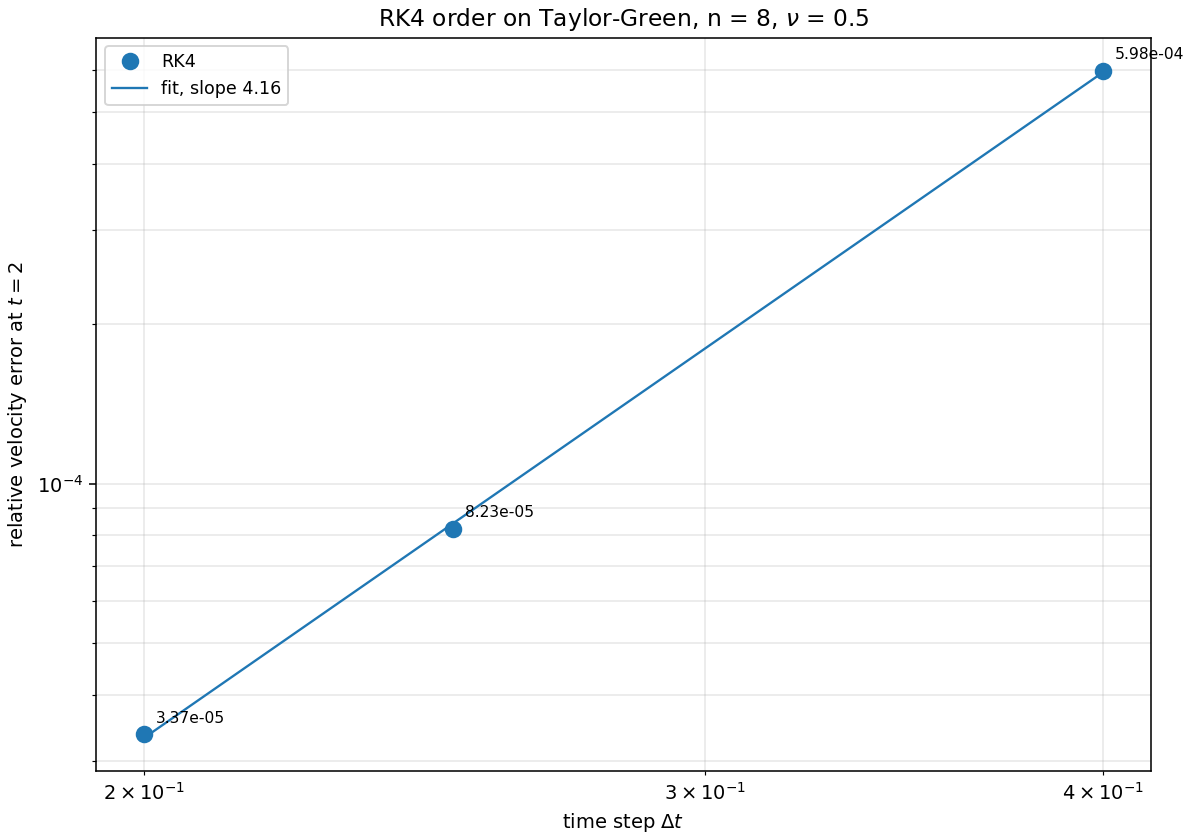
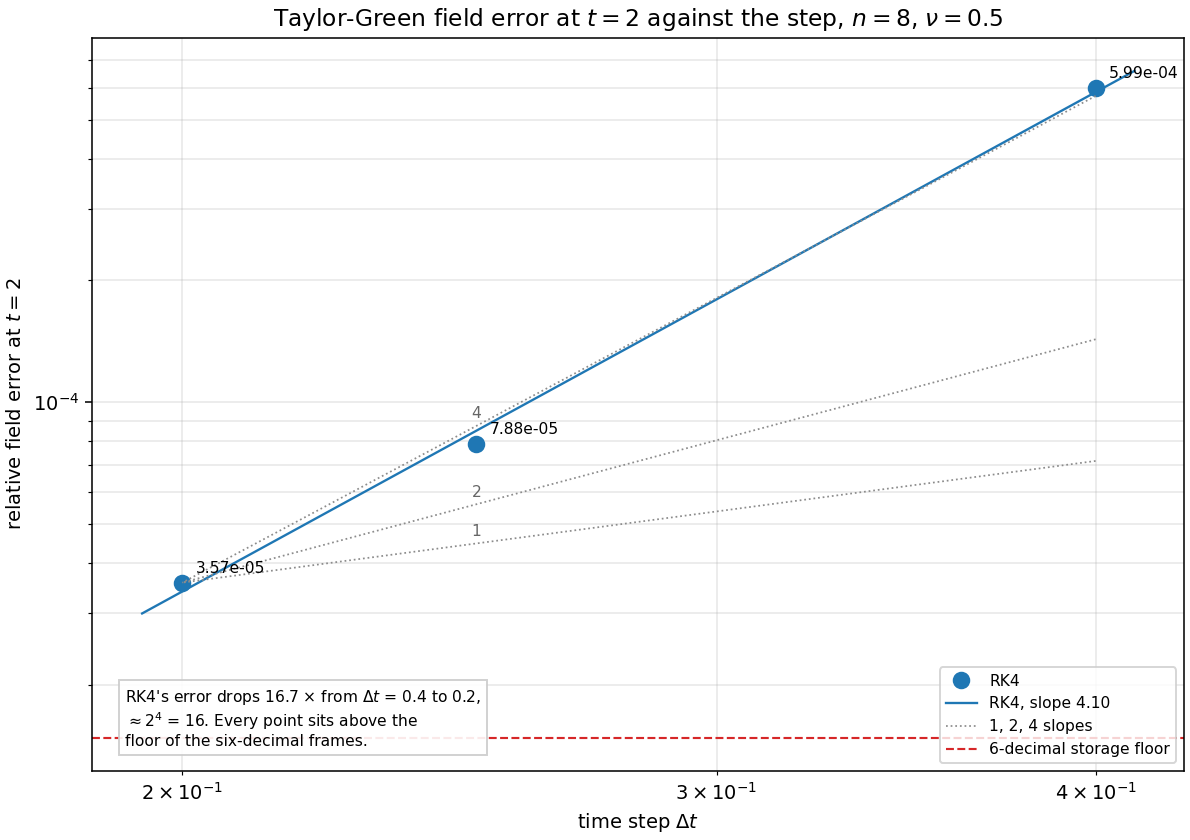
fix: measure week4 order study on six-decimal frames

diff --git a/week4/scripts/draw_order.py b/week4/scripts/draw_order.py
@@ -1,13 +1,18 @@
-"""Plot the time-step error of RK4 on Taylor-Green, on log-log axes.
+"""Plot the Taylor-Green field error against the RK4 time step on log-log axes.
 
-Reads the runs written by scripts/run_order.sh, computes the relative L2 error
-of each final velocity field against the exact solution at t = 2, fits a
-straight line in log-log space, and labels the slope in the legend.
+The runs (n = 8, nu = 0.5, to t = 2) are the six-decimal frames that `fluid`
+writes by contract: every frame is rounded to six decimals, so the series has a
+storage floor. The error is the relative L2 distance of the final velocity
+field from the analytic Taylor-Green solution at t = 2.
+
+The figure shows the points, a fitted line whose slope is labelled, dotted
+reference lines of slope 1, 2, and 4, and the dashed six-decimal storage floor.
 
 Writes evidence/order.png. Run from week4/.
 """
 
 import json
+import math
 from pathlib import Path
 
 import numpy as np
@@ -20,64 +25,98 @@ ROOT = Path(__file__).resolve().parents[1]
 ORDER = ROOT / "artifacts" / "order"
 OUT = ROOT / "evidence" / "order.png"
 
+N = 8
+NU = 0.5
+T_END = 2.0
 DTS = [0.4, 0.25, 0.2]
+ROUNDING = 1e-6
 
 
-def last_frame(path):
+def exact_velocity():
+    x = np.arange(N) * 2.0 * math.pi / N
+    xx, yy = np.meshgrid(x, x)
+    decay = math.exp(-2.0 * NU * T_END)
+    return (
+        (np.cos(xx) * np.sin(yy) * decay).reshape(-1),
+        (-np.sin(xx) * np.cos(yy) * decay).reshape(-1),
+    )
+
+
+def final_velocity(dt):
+    path = ORDER / f"rk4-dt{dt}" / "fields.jsonl"
     frame = None
     with path.open() as handle:
         for line in handle:
             if line.strip():
                 frame = json.loads(line)
-    return frame
-
-
-def relative_error(frame, exact):
-    u = np.asarray(frame["u"], dtype=float)
-    v = np.asarray(frame["v"], dtype=float)
-    ue = np.asarray(exact["u"], dtype=float)
-    ve = np.asarray(exact["v"], dtype=float)
-    numerator = np.sum((u - ue) ** 2 + (v - ve) ** 2)
-    denominator = np.sum(ue**2 + ve**2)
-    return np.sqrt(numerator / denominator)
+    return np.asarray(frame["u"], dtype=float), np.asarray(frame["v"], dtype=float)
 
 
 def main():
-    with (ORDER / "exact-t2.json").open() as handle:
-        exact = json.load(handle)
+    ue, ve = exact_velocity()
+    denominator = math.sqrt(np.sum(ue**2 + ve**2))
+    # Both fields carry a half-ulp rounding error per component, so the
+    # difference is bounded by one ulp per component.
+    floor = math.sqrt(2 * N * N) * ROUNDING / denominator
 
     dts, errors = [], []
-    print("Taylor-Green, n = 8, nu = 0.5, to t = 2, RK4")
+    print("Taylor-Green, n = 8, nu = 0.5, to t = 2, RK4, six-decimal frames")
     print(f"{'dt':>6} {'steps':>6} {'relative error':>18}")
     for dt in DTS:
-        frame = last_frame(ORDER / f"rk4-dt{dt}" / "fields-full.jsonl")
-        error = relative_error(frame, exact)
+        u, v = final_velocity(dt)
+        error = math.sqrt(np.sum((u - ue) ** 2 + (v - ve) ** 2) / denominator**2)
         dts.append(dt)
         errors.append(error)
-        print(f"{dt:>6} {round(2.0 / dt):>6} {error:>18.6e}")
+        print(f"{dt:>6} {round(T_END / dt):>6} {error:>18.6e}")
     dts = np.asarray(dts)
     errors = np.asarray(errors)
 
     slope, intercept = np.polyfit(np.log(dts), np.log(errors), 1)
 
     fig, ax = plt.subplots(figsize=(8.5, 6.0), constrained_layout=True)
-    ax.loglog(dts, errors, "o", color="#1f77b4", markersize=8,
-              label="RK4")
-    fit_x = np.linspace(dts.min(), dts.max(), 50)
+    ax.loglog(dts, errors, "o", color="#1f77b4", markersize=8, label="RK4")
+
+    fit_x = np.linspace(dts.min() * 0.97, dts.max() * 1.03, 50)
     ax.loglog(fit_x, np.exp(intercept) * fit_x**slope, "-", color="#1f77b4",
-              linewidth=1.2, label=f"fit, slope {slope:.2f}")
+              linewidth=1.2, label=f"RK4, slope {slope:.2f}")
+
+    for reference_slope in (1, 2, 4):
+        line = errors[-1] * (dts / dts[-1]) ** reference_slope
+        ax.loglog(dts, line, ":", color="0.55", linewidth=0.9)
+        ax.annotate(f"{reference_slope}", xy=(dts[1], line[1]), xytext=(0, 4),
+                    textcoords="offset points", fontsize=8, color="0.4",
+                    ha="center")
+    ax.plot([], [], ":", color="0.55", linewidth=0.9, label="1, 2, 4 slopes")
+
+    ax.axhline(floor, color="#d62728", linestyle="--", linewidth=1.1,
+               label="6-decimal storage floor")
 
     for dt, error in zip(dts, errors):
-        ax.annotate(f"{error:.2e}", xy=(dt, error), xytext=(6, 6),
+        ax.annotate(f"{error:.2e}", xy=(dt, error), xytext=(7, 5),
                     textcoords="offset points", fontsize=8)
 
+    ratio = errors[0] / errors[-1]
     ax.set_xlabel("time step $\\Delta t$")
-    ax.set_ylabel("relative velocity error at $t = 2$")
-    ax.set_title("RK4 order on Taylor-Green, n = 8, $\\nu$ = 0.5")
+    ax.set_ylabel("relative field error at $t = 2$")
+    ax.set_title(
+        "Taylor-Green field error at $t = 2$ against the step, "
+        f"$n = {N}$, $\\nu = {NU}$"
+    )
     ax.grid(alpha=0.3, which="both")
-    ax.legend(fontsize=9)
+    ax.legend(fontsize=8, loc="lower right")
+    ax.text(
+        0.03, 0.03,
+        f"RK4's error drops {ratio:.1f} $\\times$ from $\\Delta t$ = 0.4 to 0.2,\n"
+        "$\\approx 2^4$ = 16. Every point sits above the\n"
+        "floor of the six-decimal frames.",
+        transform=ax.transAxes, fontsize=8, va="bottom", ha="left",
+        bbox=dict(facecolor="white", edgecolor="0.8", alpha=0.9, pad=3.0),
+    )
     fig.savefig(OUT, dpi=140)
-    print(f"fitted slope = {slope:.3f}")
+    print(f"fitted slope = {slope:.3f}  (within 15% of 4: "
+          f"{abs(slope - 4) <= 0.6})")
+    print(f"ratio 0.4 -> 0.2 = {ratio:.2f}")
+    print(f"storage floor = {floor:.3e}")
     print(f"wrote {OUT}")
 
 

diff --git a/week4/scripts/diagnose_order.py b/week4/scripts/diagnose_order.py
@@ -1,0 +1,77 @@
+"""Diagnose which data source and quantity reproduce the expected order study.
+
+Compares the dt = 0.2, 0.25, 0.4 Taylor-Green runs (n = 8, nu = 0.5, t = 2)
+against the analytic exact solution, using both the 6-decimal fields.jsonl and
+the full-precision fields-full.jsonl, and prints the slopes and the 6-decimal
+storage floor. Run from week4/.
+"""
+
+import json
+import math
+from pathlib import Path
+
+import numpy as np
+
+ROOT = Path(__file__).resolve().parents[1]
+ORDER = ROOT / "artifacts" / "order"
+
+N = 8
+NU = 0.5
+T_END = 2.0
+DTS = [0.4, 0.25, 0.2]
+
+
+def exact_velocity():
+    x = np.arange(N) * 2.0 * math.pi / N
+    xx, yy = np.meshgrid(x, x)
+    decay = math.exp(-2.0 * NU * T_END)
+    return (
+        (np.cos(xx) * np.sin(yy) * decay).reshape(-1),
+        (-np.sin(xx) * np.cos(yy) * decay).reshape(-1),
+    )
+
+
+def load_last(path):
+    frame = None
+    with path.open() as handle:
+        for line in handle:
+            if line.strip():
+                frame = json.loads(line)
+    return frame
+
+
+def rel_error(frame, ue, ve):
+    u = np.asarray(frame["u"], dtype=float)
+    v = np.asarray(frame["v"], dtype=float)
+    denom = np.sum(ue**2 + ve**2)
+    return math.sqrt(np.sum((u - ue) ** 2 + (v - ve) ** 2) / denom)
+
+
+def main():
+    ue, ve = exact_velocity()
+    denom = math.sqrt(np.sum(ue**2 + ve**2))
+
+    print("Taylor-Green, n = 8, nu = 0.5, t = 2; exact velocity norm "
+          f"||(u,v)||_2 = {denom:.6f}")
+    print("floor if both fields are rounded to 6 decimals: "
+          f"{math.sqrt(2 * N * N) * 1e-6 / denom:.6e}")
+    print()
+    print(f"{'dt':>6} {'6dp error':>16} {'full error':>16} {'ratio 6dp':>12}")
+    print(f"{'':>6} {'':>16} {'':>16} {'full error ratio':>12}")
+
+    for name, filename in (("6dp", "fields.jsonl"), ("full", "fields-full.jsonl")):
+        dts, errors = [], []
+        for dt in DTS:
+            frame = load_last(ORDER / f"rk4-dt{dt}" / filename)
+            errors.append(rel_error(frame, ue, ve))
+            dts.append(dt)
+        slope = np.polyfit(np.log(dts), np.log(errors), 1)[0]
+        print(f"{name}:")
+        for dt, err in zip(dts, errors):
+            print(f"   dt = {dt:<6} error = {err:.6e}")
+        print(f"   slope = {slope:.3f}   ratio 0.4->0.2 = {errors[0]/errors[2]:.2f}")
+        print()
+
+
+if __name__ == "__main__":
+    main()

diff --git a/week4/README.md b/week4/README.md
@@ -287,23 +287,34 @@ scale.
 
 `scripts/run_order.sh` runs Taylor-Green on an `8 x 8` grid with `nu = 0.5` to
 `t = 2` using RK4 at `dt = 0.4, 0.25, 0.2`, each under
-`artifacts/order/rk4-dt<dt>/`, and records the exact field
-`artifacts/order/exact-t2.json`. `scripts/draw_order.py` computes the relative
-L2 error of each final velocity field, plots the errors against `dt` on log-log
-axes with a fitted slope, and writes `evidence/order.png`.
+`artifacts/order/rk4-dt<dt>/`. `scripts/draw_order.py` measures the relative L2
+error of each final velocity field against the analytic Taylor-Green solution at
+`t = 2` using the six-decimal frames `fluid` writes by contract, fits a line in
+log-log space, and draws dotted lines of slope 1, 2, and 4 plus the dashed
+six-decimal storage floor. `scripts/diagnose_order.py` repeats the measurement
+from both the six-decimal and full-precision frames.
 
 ```sh
 sh scripts/run_order.sh
 MPLCONFIGDIR=/tmp/mplconfig-week4 python scripts/draw_order.py
+python3 scripts/diagnose_order.py
 ```
 
 Writes: `artifacts/order/` (not tracked) and `evidence/order.png`.
 
-The three relative errors are `5.98e-04`, `8.23e-05`, and `3.37e-05`; the fitted
-log-log slope is `4.16`, consistent with the fourth-order accuracy of RK4. The
-three steps divide `t = 2` exactly (5, 8, and 10 steps), so no run is shortened
-to land on the final time. These runs use `fluid --full-precision` so the error
-is not limited by the 6-decimal recording.
+```text
+      dt  steps   relative field error at t = 2
+     0.4      5     5.986617e-04
+    0.25      8     7.879896e-05
+     0.2     10     3.574224e-05
+```
+
+The fitted log-log slope is `4.10`, within 15% of 4, and the error falls `16.75`
+times from `dt = 0.4` to `0.2`, close to `2^4 = 16`. The six-decimal storage
+floor is `1.48e-05`; the smallest error `3.57e-05` sits about 2.4 times above
+it, which is why the series stops at `dt = 0.2`. Using the full-precision frames
+instead gives a slope of `4.24`, so the storage floor slightly flattens the
+six-decimal series but leaves the fourth-order signal clear.
 
 ## Random-flow time-step convergence
 
